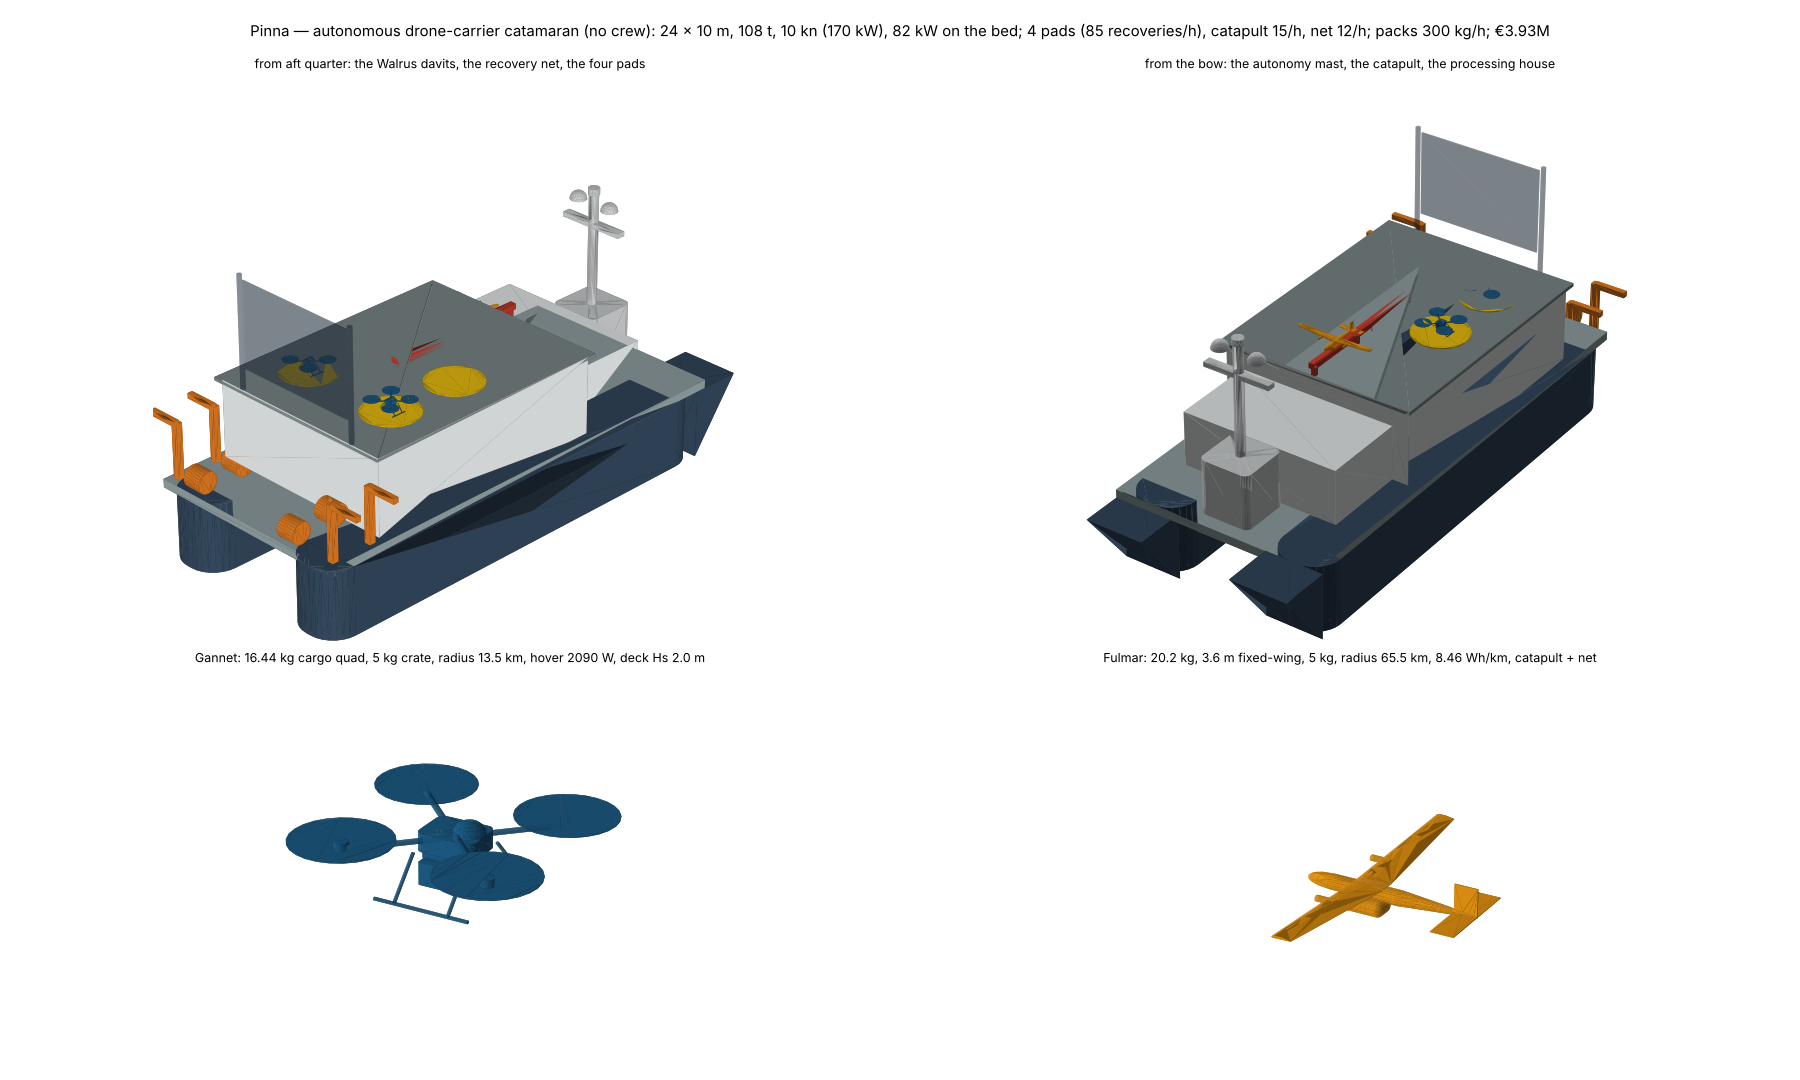
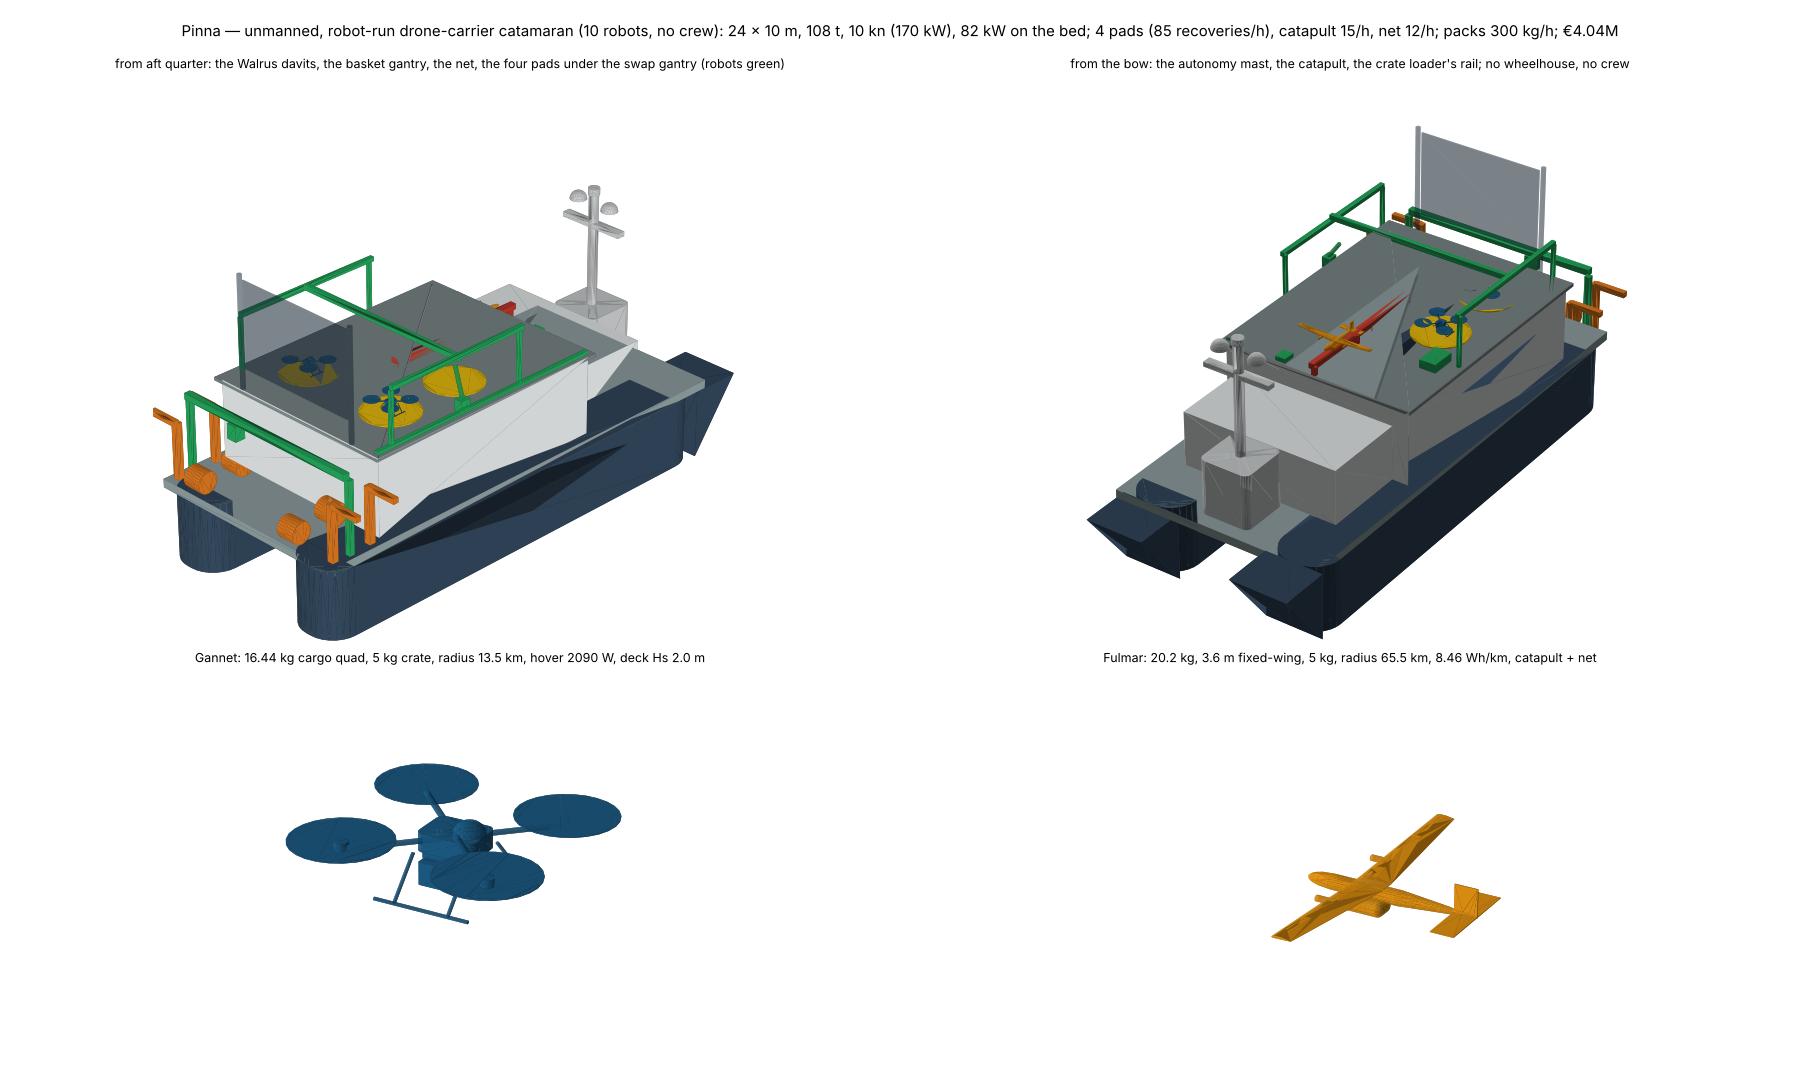
Pinna: fully unmanned and robot-run - no crew or console even in transit; ROBOTS (davits, basket gantry, packing cell, crate loader, swap robot, deck tug, cleaner: reach, payload, cycle, power, faults, price) in the sizing, the CAD, the render and the Ketos card
Claude-Session: https://claude.ai/code/session_01JpTMNsgteXWBra98HVoT9b

diff --git a/labs/marine/designs/pinna.py b/labs/marine/designs/pinna.py
@@ -1,6 +1,7 @@
 """Pinna: an autonomous drone-carrier catamaran for the clam bed (Ketos Clams stages 6-8), named after *Pinna
 nobilis*, the noble pen shell of the Mediterranean that grows pearls and spins sea silk. It replaces the crewed
-``clam_boat`` (the farm workboat with davits): an **uncrewed surface vessel** that lies over the bed on dynamic
+``clam_boat`` (the farm workboat with davits): a fully **unmanned surface vessel** - no crew at any time, not even in transit: every task aboard is a robot's
+(``ROBOTS``) - that lies over the bed on dynamic
 positioning, runs four Walrus crawlers on automatic davits and tether reels, hauls their baskets with a robot,
 grades and packs the clams into 5 kg iced crates, and sends the crates ashore by air - Gannet cargo quads
 (``labs/aero/designs/gannet.py``) from four landing pads, Fulmar fixed-wings (``fulmar.py``) off a pneumatic
@@ -24,7 +25,14 @@ What is on it, aft to forward (x forward, y left, z up from the waterline; mm in
 * the **autonomy mast** forward: X- and S-band radar, AIS, a 360 deg lidar ring and day/IR cameras, dual RTK
   GNSS + INS, satcom (LEO) and 4G/LTE domes, UHF and the drones' 900 MHz / LTE links, ADS-B in for the air picture,
   the horn and the lights of a vessel not under command. COLREGs collision avoidance in the autopilot; no
-  wheelhouse - a small transit console in the mast's base for a delivery crew in port.
+  wheelhouse, no accommodation, no console aboard: it transits to and from port under its own autonomy, watched
+  from shore;
+* **the robots** (``ROBOTS``, each a card with its reach, payload, cycle time, power, failure rate and price): the
+  davit robots launch and recover the Walruses; the basket gantry hauls and empties the baskets; the grading and
+  packing cell packs the crates; the crate-loader arm on a rail along the flight deck puts the crates into the
+  Gannets' hooks and the Fulmars' pods; the battery-swap robot changes the packs on the pads and in the hangar;
+  the deck tug moves drones between the pads, the lift and the catapult; a cleaning and inspection crawler keeps
+  the deck, the pads' grids and the sensors clean.
 
 The numbers (``sizing``; class values for 24 m workcats and USVs, assumed, no vendor's vessel): displacement from
 the demihulls' block coefficient, the resistance by a total coefficient at the service speed, the electrical
@@ -60,6 +68,24 @@ DEADWEIGHT = {"fuel (diesel, 10 days)": 9.0, "fresh water + ice": 3.0, "crate st
 LOADS = {"DP (two pods, a tunnel, 0.5 m/s tide, 8 m/s wind)": 45.0, "4 Walruses on their tethers": 4 * 0.371 + 0.5,
          "davits + reels (average)": 2.0, "basket robot": 1.5, "processing line + vision grader": 6.0, "chiller + ice": 5.0,
          "drone chargers (12 at 1C)": 16.0, "autonomy: radars, lidar, cameras, compute, comms": 2.5, "hotel": 2.0}
+#: The robots aboard (class values, assumed): what each does, its reach (m), payload (kg), cycle time (s), power
+#: (kW average while working), failures a day (each needs a remote reset or a takeover) and price (EUR).
+ROBOTS = {
+    "davit": {"count": 4, "what": "an automatic davit with a latch cradle: a Walrus over the side and back, the tether reel paced to it",
+              "reach_m": 2.5, "payload_kg": 60.0, "cycle_s": 300.0, "power_kW": 1.5, "faults_per_day": 0.05, "fix_min": 10.0, "price_eur": 38000.0},
+    "basket_gantry": {"count": 1, "what": "a gantry over the Walrus deck: grabs the float line, winches the basket, tips it onto the wash conveyor, sends it back down",
+                      "reach_m": 9.0, "payload_kg": 40.0, "cycle_s": 90.0, "power_kW": 1.5, "faults_per_day": 0.3, "fix_min": 8.0, "price_eur": 85000.0},
+    "packing_cell": {"count": 1, "what": "wash, vision grader, a 6-axis arm: clams and flake ice into a 5 kg crate, lid, label (harvest time, cell)",
+                     "reach_m": 1.6, "payload_kg": 10.0, "cycle_s": 60.0, "power_kW": 6.0, "faults_per_day": 0.4, "fix_min": 6.0, "price_eur": 160000.0},
+    "crate_loader": {"count": 1, "what": "an arm on a rail along the flight deck and down the lift: a crate from the store to a Gannet's hook or a Fulmar's pod",
+                     "reach_m": 12.0, "payload_kg": 8.0, "cycle_s": 40.0, "power_kW": 1.0, "faults_per_day": 0.3, "fix_min": 6.0, "price_eur": 70000.0},
+    "swap_robot": {"count": 1, "what": "a gantry between the pads and the battery room: the pack out of a locked drone's sled, a charged one in",
+                   "reach_m": 12.0, "payload_kg": 8.0, "cycle_s": 90.0, "power_kW": 1.0, "faults_per_day": 0.3, "fix_min": 8.0, "price_eur": 90000.0},
+    "deck_tug": {"count": 1, "what": "a low tug with a gripper: drones between the pads, the lift and the catapult cradle; a Fulmar out of the net",
+                 "reach_m": 14.0, "payload_kg": 30.0, "cycle_s": 60.0, "power_kW": 0.8, "faults_per_day": 0.1, "fix_min": 10.0, "price_eur": 45000.0},
+    "cleaner": {"count": 1, "what": "a magnetic crawler: washes the pads' grids, the deck, the radar and camera windows; inspects welds and the net",
+                "reach_m": 0.0, "payload_kg": 5.0, "cycle_s": 1800.0, "power_kW": 0.4, "faults_per_day": 0.05, "fix_min": 15.0, "price_eur": 30000.0},
+}
 #: The autonomy suite: (what, why).
 AUTONOMY = {"radar": "X- and S-band ARPA: targets out to 12 nm, the collision avoidance's tracks",
             "ais": "class A transponder: the others see it, it sees them",
@@ -72,7 +98,7 @@ AUTONOMY = {"radar": "X- and S-band ARPA: targets out to 12 nm, the collision av
 
 class Pinna(Design):
     parameters = [
-        Parameter("part", "vessel", choices=("vessel", "hulls", "deck", "house", "flight_deck", "pads", "catapult", "net", "mast", "davits")),
+        Parameter("part", "vessel", choices=("vessel", "hulls", "deck", "house", "flight_deck", "pads", "catapult", "net", "mast", "davits", "robots")),
         Parameter("length", 24000.0, "mm"),
         Parameter("beam", 10000.0, "mm", description="overall"),
         Parameter("hull_beam", 2800.0, "mm", description="each demihull"),
@@ -122,9 +148,10 @@ class Pinna(Design):
         fuel_l_h = (load / 0.85) * 0.25 / 0.84                       # 250 g/kWh at the shaft, 0.84 kg/L
         fuel_days = DEADWEIGHT["fuel (diesel, 10 days)"] * 1000 / 0.84 / fuel_l_h / 24
         pad_rate = p["pads"] * 3600.0 / p["pad_cycle_s"]
-        price = {"hulls + machinery": 2.3e6, "autonomy suite (sensors, compute, comms, COLREGs, certification)": 0.55e6,
-                 "flight deck automation (pads, swap robot, catapult, net)": 0.42e6, "processing + packing + chiller": 0.26e6,
-                 "4 davits + reels + basket robot": 0.24e6, "drones: 8 Gannet, 3 Fulmar, packs": 8 * 9800 + 3 * 21000 + 24 * 450 + 9 * 620}
+        robots_eur = sum(r["count"] * r["price_eur"] for r in ROBOTS.values())
+        price = {"hulls + machinery": 2.3e6, "robots aboard": robots_eur, "autonomy suite (sensors, compute, comms, COLREGs, certification)": 0.55e6,
+                 "flight deck (pads, catapult, net, lift)": 0.24e6, "processing line + chiller": 0.1e6,
+                 "4 tether reels": 0.06e6, "drones: 8 Gannet, 3 Fulmar, packs": 8 * 9800 + 3 * 21000 + 24 * 450 + 9 * 620}
         return {"length_m": L, "beam_m": p["beam"] / 1000, "draught_m": T, "displacement_t": round(disp_t, 1),
                 "lightship_t": round(light, 1), "deadweight_t": round(dwt, 2), "draught_margin_t": round(disp_t - light - dwt, 1),
                 "wetted_m2": round(wetted, 1), "resistance_kN": round(R / 1000, 1), "service_kn": p["service_kn"],
@@ -137,6 +164,7 @@ class Pinna(Design):
                 "crates_per_h": round(3600 / p["pack_s"]), "pack_kg_h": round(3600 / p["pack_s"] * p["crate_kg"]),
                 "baskets_per_h": round(3600 / p["basket_haul_s"]), "air_kg_h_vtol_deck_limit": round(pad_rate * p["crate_kg"]),
                 "charging_kW": LOADS["drone chargers (12 at 1C)"], "crew": 0, "operators_ashore": 1 / 3,
+                "robots": sum(r["count"] for r in ROBOTS.values()), "robot_faults_per_day": round(sum(r["count"] * r["faults_per_day"] for r in ROBOTS.values()), 2),
                 "price": price, "price_eur": round(sum(price.values())), "day_rate_eur": 1400.0}
 
     # --- CAD ---------------------------------------------------------------------------------------------------
@@ -209,10 +237,33 @@ class Pinna(Design):
                 solids.append(cq.Solid.makeCylinder(500, 900, cq.Vector(x, s * (y - 1800), z + 500), cq.Vector(0, 1, 0)))
         return cq.Workplane("XY").newObject([cq.Compound.makeCompound(solids)])
 
+    def _robots(self, p):
+        """The robots' frames: the basket gantry over the Walrus deck, the crate loader's rail along the flight
+        deck's starboard edge (with the arm), the swap gantry across the pads, the deck tug, the cleaner."""
+        z, zf = self._z_deck(p), self._z_deck(p) + 3600 + 150
+        B = p["beam"]
+        s = []
+        for y in (B / 2 - 300, -B / 2 + 300):                                   # the basket gantry's legs and beam
+            s.append(cq.Solid.makeBox(250, 250, 3400, cq.Vector(-10800, y - 125, z)))
+        s.append(cq.Solid.makeBox(300, B - 600, 300, cq.Vector(-10950, -B / 2 + 300, z + 3400)))
+        s.append(cq.Solid.makeBox(500, 500, 700, cq.Vector(-11050, 1500, z + 2700)))        # the trolley + winch
+        s.append(cq.Solid.makeBox(12000, 200, 150, cq.Vector(-9000, -4600, zf)))           # the crate loader's rail
+        s.append(cq.Solid.makeBox(500, 400, 500, cq.Vector(-4500, -4700, zf + 150)))        # its carriage
+        s.append(cq.Solid.makeCylinder(90, 1400, cq.Vector(-4250, -4500, zf + 650), cq.Vector(0.3, 0.6, 0.75)))
+        for x in (-8000, -800):                                                 # the swap gantry over the pads
+            for y in (4500, -4300):
+                s.append(cq.Solid.makeBox(160, 160, 2400, cq.Vector(x - 80, y - 80, zf)))
+        s.append(cq.Solid.makeBox(7400, 200, 200, cq.Vector(-8000, 4400, zf + 2400)))
+        s.append(cq.Solid.makeBox(7400, 200, 200, cq.Vector(-8000, -4400, zf + 2400)))
+        s.append(cq.Solid.makeBox(200, 9000, 250, cq.Vector(-4500, -4500, zf + 2400)))     # the bridge, at mid-travel
+        s.append(cq.Solid.makeBox(1200, 800, 400, cq.Vector(-1000, 3200, zf)))              # the deck tug
+        s.append(cq.Solid.makeBox(600, 500, 200, cq.Vector(2500, -2000, zf)))               # the cleaner
+        return cq.Workplane("XY").newObject([cq.Compound.makeCompound(s)])
+
     def build(self, p):
         if cq is None:
             raise ImportError("Pinna's CAD needs CadQuery")
-        parts = {"hulls": self._hulls, "deck": self._deck, "house": self._house, "flight_deck": self._flight_deck, "pads": self._pads,
+        parts = {"robots": self._robots, "hulls": self._hulls, "deck": self._deck, "house": self._house, "flight_deck": self._flight_deck, "pads": self._pads,
                  "catapult": self._catapult, "net": self._net, "mast": self._mast, "davits": self._davits}
         if p["part"] in parts:
             return parts[p["part"]](p)

diff --git a/labs/marine/designs/pinna_draw3d.py b/labs/marine/designs/pinna_draw3d.py
@@ -16,7 +16,7 @@ from fulmar import Fulmar  # noqa: E402
 from gannet import Gannet  # noqa: E402
 
 COLOURS = {"hulls": "#34495e", "deck": "#95a5a6", "house": "#ecf0f1", "flight_deck": "#7f8c8d", "pads": "#f1c40f",
-           "catapult": "#c0392b", "net": ("#2c3e50", 0.35), "mast": "#d0d3d4", "davits": "#e67e22"}
+           "catapult": "#c0392b", "net": ("#2c3e50", 0.35), "mast": "#d0d3d4", "davits": "#e67e22", "robots": "#27ae60"}
 
 
 def _tris(shape, tol=30.0, move=(0, 0, 0), rot=0.0):
@@ -67,15 +67,15 @@ def draw_drone(ax, shape, col, lim, title):
 
 def main(out="pinna_3d.png"):
     fig = plt.figure(figsize=(20, 12))
-    draw_vessel(fig.add_axes([0.0, 0.38, 0.5, 0.55], projection="3d"), 28, -135, "from aft quarter: the Walrus davits, the recovery net, the four pads")
-    draw_vessel(fig.add_axes([0.5, 0.38, 0.5, 0.55], projection="3d"), 32, 35, "from the bow: the autonomy mast, the catapult, the processing house")
+    draw_vessel(fig.add_axes([0.0, 0.38, 0.5, 0.55], projection="3d"), 28, -135, "from aft quarter: the Walrus davits, the basket gantry, the net, the four pads under the swap gantry (robots green)")
+    draw_vessel(fig.add_axes([0.5, 0.38, 0.5, 0.55], projection="3d"), 32, 35, "from the bow: the autonomy mast, the catapult, the crate loader's rail; no wheelhouse, no crew")
     gs, fs = Gannet.sizing(), Fulmar.sizing()
     draw_drone(fig.add_axes([0.05, 0.0, 0.4, 0.38], projection="3d"), Gannet().build(Gannet.p()), "#1f618d", 1200,
                f"Gannet: {gs['mtow_kg']} kg cargo quad, 5 kg crate, radius {gs['radius_km']} km, hover {gs['hover_W']} W, deck Hs {gs['deck_hs_limit_m']} m")
     draw_drone(fig.add_axes([0.55, 0.0, 0.4, 0.38], projection="3d"), Fulmar().build(Fulmar.p()), "#f39c12", 2000,
                f"Fulmar: {fs['mtow_kg']} kg, 3.6 m fixed-wing, 5 kg, radius {fs['radius_km']} km, {fs['wh_per_km']} Wh/km, catapult + net")
     s = Pinna.sizing()
-    fig.suptitle(f"Pinna — autonomous drone-carrier catamaran (no crew): {s['length_m']:.0f} x {s['beam_m']:.0f} m, {s['displacement_t']:.0f} t, "
+    fig.suptitle(f"Pinna — unmanned, robot-run drone-carrier catamaran ({s['robots']} robots, no crew): {s['length_m']:.0f} x {s['beam_m']:.0f} m, {s['displacement_t']:.0f} t, "
                  f"{s['service_kn']:.0f} kn ({s['service_kW']} kW), {s['bed_load_kW']:.0f} kW on the bed; 4 pads ({s['vtol_recoveries_per_h']:.0f} recoveries/h), "
                  f"catapult {s['fixed_wing_launches_per_h']:.0f}/h, net {s['fixed_wing_recoveries_per_h']:.0f}/h; packs {s['pack_kg_h']} kg/h; €{s['price_eur']/1e6:.2f}M", fontsize=12)
     fig.savefig(out, dpi=90)

diff --git a/labs/marine/designs/ketos_export.py b/labs/marine/designs/ketos_export.py
@@ -577,11 +577,11 @@ def clam_boat():
 def pinna():
     """Pinna, the autonomous drone-carrier catamaran (Ketos Clams stages 6-8): Walrus davits and reels, the basket
     robot and the packer, four VTOL pads, the catapult and the recovery net, the autonomy mast. z = 0 the waterline."""
-    from pinna import AUTONOMY, LOADS, Pinna
+    from pinna import AUTONOMY, LOADS, ROBOTS, Pinna
     d, p, s = Pinna(), Pinna.p(), Pinna.sizing()
     parts = [("pinna_hulls", "hulls", "#34495e"), ("pinna_deck", "deck", "#95a5a6"), ("pinna_house", "house", "#ecf0f1"),
              ("pinna_flight_deck", "flight_deck", "#7f8c8d"), ("pinna_pads", "pads", "#f1c40f"), ("pinna_catapult", "catapult", "#c0392b"),
-             ("pinna_net", "net", "#2c3e50"), ("pinna_mast", "mast", "#d0d3d4"), ("pinna_davits", "davits", "#e67e22")]
+             ("pinna_net", "net", "#2c3e50"), ("pinna_mast", "mast", "#d0d3d4"), ("pinna_davits", "davits", "#e67e22"), ("pinna_robots", "robots", "#27ae60")]
     models = [_mesh(d.build(p | {"part": k}), n, _hex(c), 40.0) for n, k, c in parts]
     z_fd = (d._z_deck(p) + 3600 + 150) / 1000
     card = CARD | {"name": "pinna", "kind": "boat", "autonomous": True, "crew": 0, "operators_ashore": round(s["operators_ashore"], 3),
@@ -590,7 +590,7 @@ def pinna():
                    "displacement_t": s["displacement_t"], "mass_kg": round(1000 * (s["lightship_t"] + s["deadweight_t"])),
                    "service_kn": s["service_kn"], "max_kn": s["max_kn"], "service_kW": s["service_kW"], "bed_load_kW": s["bed_load_kW"],
                    "power_W": round(1000 * s["bed_load_kW"]), "battery_kWh": p["battery_kwh"], "endurance_days": s["endurance_days"],
-                   "fuel_l_h_on_bed": s["fuel_l_h_on_bed"], "loads_kW": {k: round(v, 2) for k, v in LOADS.items()}, "autonomy": AUTONOMY,
+                   "fuel_l_h_on_bed": s["fuel_l_h_on_bed"], "loads_kW": {k: round(v, 2) for k, v in LOADS.items()}, "autonomy": AUTONOMY, "robots": ROBOTS, "unmanned": True,
                    "carries": ["walrus", "gannet", "fulmar"], "davits": p["davits"], "tether_reels": p["davits"], "usbl": True,
                    "haul_min_per_basket": p["basket_haul_s"] / 60.0, "basket_robot": True,
                    "packing": {"crate_kg": p["crate_kg"], "pack_s": p["pack_s"], "store_kg": p["crate_store_kg"], "ice": True},

diff --git a/labs/marine/tests/test_pinna.py b/labs/marine/tests/test_pinna.py
@@ -2,7 +2,7 @@
 deck's rates beat the packer, no crew aboard, the CAD builds."""
 import pytest
 
-from pinna import AUTONOMY, Pinna
+from pinna import AUTONOMY, ROBOTS, Pinna
 
 
 def test_floats_and_powers():
@@ -16,6 +16,15 @@ def test_deck_keeps_up_and_no_crew():
     assert s["crew"] == 0 and {"radar", "ais", "colregs", "supervision"} <= set(AUTONOMY)
     assert s["air_kg_h_vtol_deck_limit"] > 200 and s["pack_kg_h"] >= 200 and s["baskets_per_h"] > 20
     assert s["deck_spots"]["vtol_pads"] == 4 and s["price_eur"] < 5e6
+
+
+def test_every_task_has_a_robot():
+    for k in ("davit", "basket_gantry", "packing_cell", "crate_loader", "swap_robot", "deck_tug", "cleaner"):
+        r = ROBOTS[k]
+        assert r["count"] >= 1 and r["cycle_s"] > 0 and r["power_kW"] > 0 and r["price_eur"] > 0 and r["faults_per_day"] >= 0
+    p = Pinna.p()
+    assert ROBOTS["basket_gantry"]["cycle_s"] == p["basket_haul_s"] and ROBOTS["packing_cell"]["cycle_s"] == p["pack_s"]
+    assert ROBOTS["crate_loader"]["payload_kg"] >= p["crate_kg"] and ROBOTS["davit"]["count"] == p["davits"]
 
 
 def test_cad_builds():

diff --git a/labs/marine/tests/test_ketos_export.py b/labs/marine/tests/test_ketos_export.py
@@ -136,6 +136,7 @@ def test_carrier_and_drones_export(tmp_path):
     c = json.load(open(tmp_path / "pinna.card.json"))
     assert c["kind"] == "boat" and c["autonomous"] and c["crew"] == 0 and len(c["flight_deck"]["pads"]) == 4
     assert c["haul_min_per_basket"] < 3.0 and c["packing"]["crate_kg"] == 5.0 and "colregs" in c["autonomy"]
+    assert c["unmanned"] and {"swap_robot", "crate_loader", "basket_gantry"} <= set(c["robots"])
     _meshes(tmp_path, c)
     for name, kind in (("gannet", "vtol"), ("fulmar", "fixed_wing")):
         a = json.load(open(tmp_path / f"{name}.card.json"))

diff --git a/exports/ketos/README.md b/exports/ketos/README.md
@@ -31,6 +31,6 @@ Made by `labs/marine/designs/ketos_export.py` from the CadQuery models and the d
 | cable_vessel | `subsea_cable.py` `CableVessel` | the 130 m cable-lay and repair vessel: 7000 t carousel, stern chute, jointing container, the trencher's LARS |
 | cable | `subsea_cable.py` `CableSegment` | a 10 m segment of a 3-core 220 kV export cable (0.24 m, 90 kg/m, MBR 4 m) |
 | cable_joint | `subsea_cable.py` `CableJoint` | a rigid universal repair joint with its bend restrictors (96 h to make one) |
-| pinna | `pinna.py` `Pinna` | the autonomous drone-carrier catamaran (no crew): 24 x 10 m, 108 t, Walrus davits, basket robot, crate packer, 4 VTOL pads, catapult, recovery net, autonomy mast |
+| pinna | `pinna.py` `Pinna` | the unmanned, robot-run drone-carrier catamaran (no crew at all): 24 x 10 m, 108 t; robots (card `robots`: reach, payload, cycle, power, faults, price) for the davits, baskets, packing, crate loading, battery swaps, deck handling, cleaning; 4 VTOL pads, catapult, net, autonomy mast |
 | gannet | aero `gannet.py` `Gannet` | the cargo quad (air card, `air: vtol`): 16.4 kg with a 5 kg crate, 28" rotors, 1150 Wh, radius 13.5 km, deck Hs 2 m |
 | fulmar | aero `fulmar.py` `Fulmar` (on `fixed_wing.FixedWing`) | the long-haul fixed-wing (air card, `air: fixed_wing`): 3.6 m, 20 kg with 5 kg, 8.5 Wh/km, radius 65 km, catapult + net |
